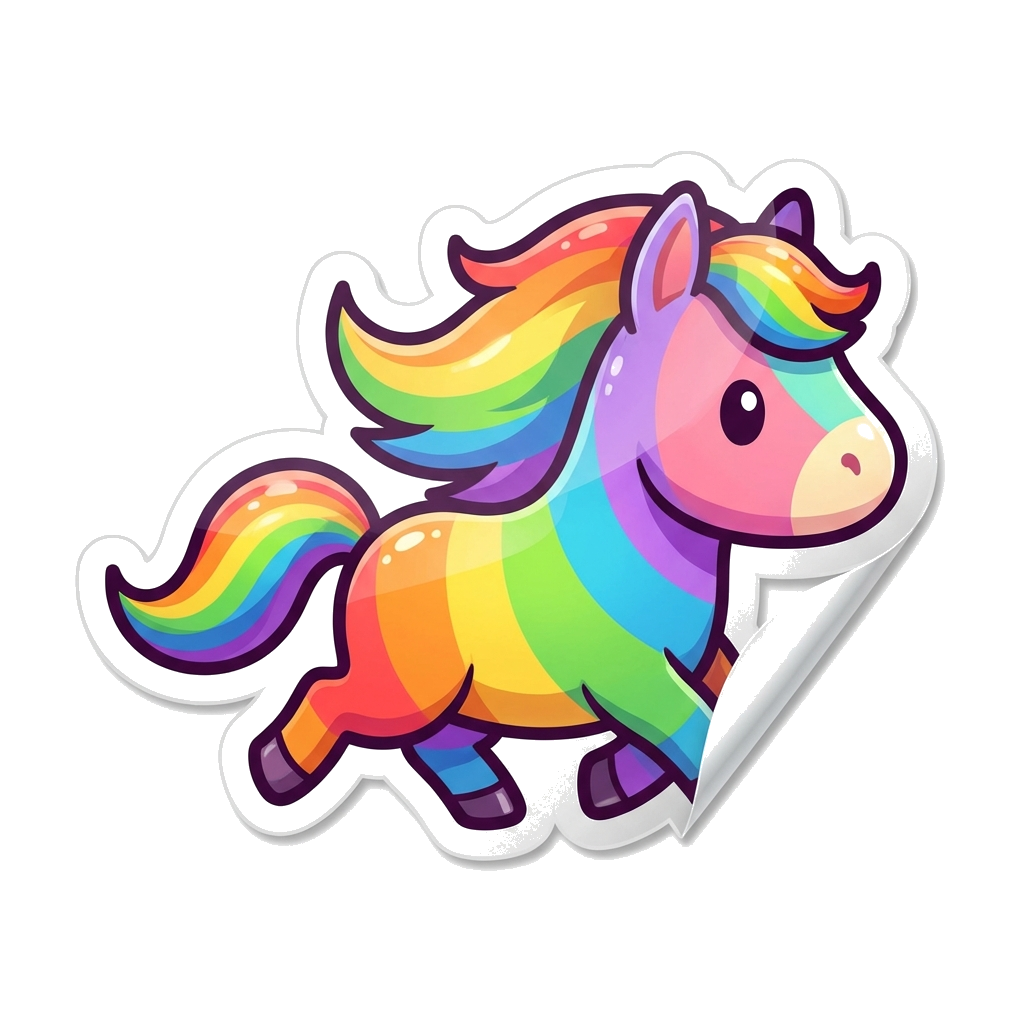
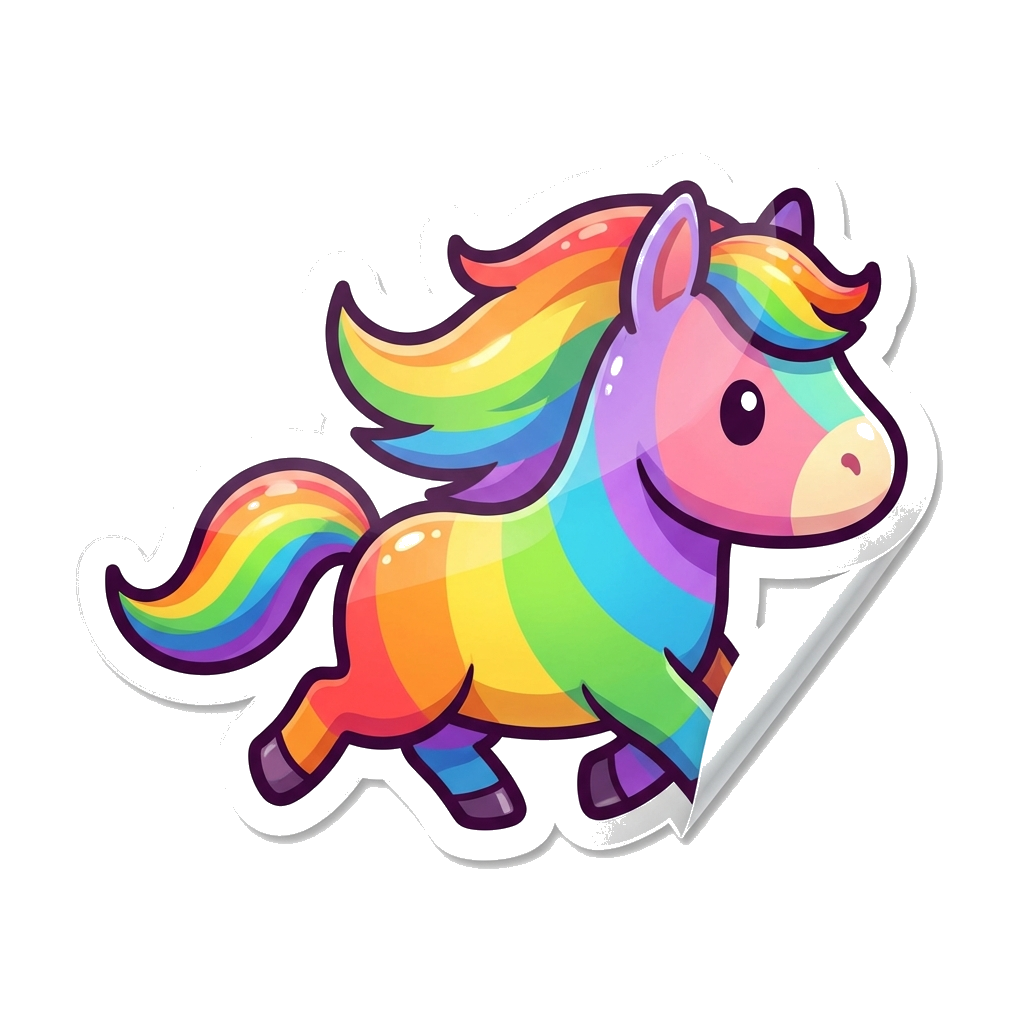
Add device-based reconnection: auto-rejoin on page reload, same device can reclaim slot

diff --git a/templates/client.html b/templates/client.html
@@ -409,12 +409,58 @@
             reconnectionDelayMax: 5000,
             reconnectionAttempts: 10
         });
+
+        // ========= Device ID for reconnection =========
+        function getDeviceId() {
+            let id = localStorage.getItem('horse_race_device_id');
+            if (!id) {
+                id = 'dev_' + Math.random().toString(36).substr(2, 9) + Date.now().toString(36);
+                localStorage.setItem('horse_race_device_id', id);
+            }
+            return id;
+        }
+        const deviceId = getDeviceId();
+        console.log('Device ID:', deviceId);
+
+        // ========= State Persistence =========
+        function saveGameState() {
+            sessionStorage.setItem('horse_race_state', JSON.stringify({
+                myName, myAvatar, isRacing, isWaiting
+            }));
+        }
+
+        function loadGameState() {
+            const saved = sessionStorage.getItem('horse_race_state');
+            if (saved) {
+                try {
+                    const state = JSON.parse(saved);
+                    if (state.myName) myName = state.myName;
+                    if (state.myAvatar) myAvatar = state.myAvatar;
+                    if (state.isRacing) isRacing = state.isRacing;
+                    if (state.isWaiting) isWaiting = state.isWaiting;
+                    console.log('Restored game state:', state);
+                    return true;
+                } catch (e) {
+                    console.log('Failed to restore game state:', e);
+                }
+            }
+            return false;
+        }
+
+        function clearGameState() {
+            sessionStorage.removeItem('horse_race_state');
+        }
+        // ==============================================
+
         let myId = null;
         let myName = '';
         let myAvatar = 'horse1';
         let isRacing = false;
         let isWaiting = false;  // Track waiting state for reconnection
         let disconnectOverlay = null;
+
+        // Restore state on page load (before socket connect triggers)
+        const hadSavedState = loadGameState();
 
         // Show disconnect overlay
         function showDisconnectOverlay() {
@@ -486,12 +532,12 @@
             // If we were in a game (racing), try to rejoin
             if (myName && isRacing) {
                 console.log('Attempting to rejoin game as:', myName);
-                socket.emit('rejoin_game', { name: myName, avatar_id: myAvatar });
+                socket.emit('rejoin_game', { name: myName, avatar_id: myAvatar, device_id: deviceId });
             }
             // If we were waiting, try to rejoin waiting
             else if (myName && isWaiting) {
                 console.log('Attempting to rejoin waiting as:', myName);
-                socket.emit('rejoin_waiting', { name: myName, avatar_id: myAvatar });
+                socket.emit('rejoin_waiting', { name: myName, avatar_id: myAvatar, device_id: deviceId });
             }
         });
 
@@ -571,6 +617,7 @@
                 myName = data.name;
             }
             isWaiting = true;  // Mark that we're in waiting state
+            saveGameState();  // Persist state for page reload
 
             // Show player's selected avatar in wait screen
             const avatarImg = document.getElementById('wait-avatar-img');
@@ -602,6 +649,7 @@
 
             isWaiting = false;  // No longer waiting
             isRacing = true;  // Mark that we're in a race for reconnection
+            saveGameState();  // Persist state for page reload
 
             // IMPORTANT: Disable all inputs and clear undo history to prevent "Shake to Undo"
             disableInputsForGame();
@@ -928,7 +976,7 @@
             myName = document.getElementById('player-name').value;
             myAvatar = document.getElementById('selected-avatar').value;
             if (!myName) return alert("請輸入名字 / Please enter name");
-            socket.emit('join_game', { name: myName, avatar_id: myAvatar });
+            socket.emit('join_game', { name: myName, avatar_id: myAvatar, device_id: deviceId });
         }
 
         function requestPermission() {

diff --git a/server_render.py b/server_render.py
@@ -366,6 +366,7 @@ def on_join(data):
 
     name = data.get('name', 'Unknown').strip()
     avatar_id = data.get('avatar_id', 'horse1')
+    device_id = data.get('device_id', '')
     
     # Name validation: limit length to 10 characters
     if len(name) > 10:
@@ -377,22 +378,55 @@ def on_join(data):
         return
     
     # Check for duplicate names
-    existing_names = [p['name'] for p in PLAYERS.values()]
-    if name in existing_names:
-        # Auto-add suffix for duplicate names
-        suffix = 2
-        new_name = f"{name}{suffix}"
-        while new_name in existing_names:
-            suffix += 1
+    existing_player = None
+    existing_pid = None
+    for pid, player in list(PLAYERS.items()):
+        if player['name'] == name:
+            existing_player = player
+            existing_pid = pid
+            break
+    
+    if existing_player:
+        # Same name exists - check device_id
+        if device_id and existing_player.get('device_id') == device_id:
+            # Same device! This is a reconnection, take over the slot
+            print(f"Player {name} reconnecting with same device_id, taking over slot")
+            new_id = request.sid
+            existing_player['id'] = new_id
+            existing_player['disconnected'] = False
+            existing_player['avatar_id'] = avatar_id  # Update avatar if changed
+            
+            # Move player to new session ID
+            if existing_pid != new_id:
+                PLAYERS[new_id] = existing_player
+                del PLAYERS[existing_pid]
+            
+            emit('join_success', {'id': new_id, 'name': name}, room=new_id)
+            # Notify host about reconnection
+            emit('player_reconnected', {
+                'player_id': new_id,
+                'old_player_id': existing_pid,
+                'player_name': name
+            }, broadcast=True)
+            emit('update_player_list', list(PLAYERS.values()), broadcast=True)
+            return
+        else:
+            # Different device, add suffix
+            suffix = 2
             new_name = f"{name}{suffix}"
-        name = new_name
-        # Notify player about name change
-        emit('name_changed', {'original': data.get('name'), 'new': name})
+            existing_names = [p['name'] for p in PLAYERS.values()]
+            while new_name in existing_names:
+                suffix += 1
+                new_name = f"{name}{suffix}"
+            name = new_name
+            # Notify player about name change
+            emit('name_changed', {'original': data.get('name'), 'new': name})
     
     PLAYERS[request.sid] = {
         'id': request.sid,
         'name': name,
         'avatar_id': avatar_id,
+        'device_id': device_id,  # Store device ID
         'progress': 0,
         'speed': 0,
         'finished': False,
@@ -409,6 +443,7 @@ def on_rejoin(data):
         return
     
     name = data.get('name', '')
+    device_id = data.get('device_id', '')
     if not name:
         emit('rejoin_failed', {'message': '名稱錯誤'})
         return
@@ -425,6 +460,10 @@ def on_rejoin(data):
     if not old_player:
         emit('rejoin_failed', {'message': '找不到玩家'})
         return
+    
+    # Optional: verify device_id matches (log warning if mismatch but allow)
+    if device_id and old_player.get('device_id') and device_id != old_player.get('device_id'):
+        print(f"WARNING: Player {name} rejoining with different device_id!")
     
     # Transfer player data to new session
     new_id = request.sid

diff --git a/remove_white_bg.py b/remove_white_bg.py
@@ -43,10 +43,21 @@ def process_new_horses():
     pass
 
 if __name__ == '__main__':
-    # This script is intended to be run after copying images
-    folder = r'c:\Users\guziy\Documents\過年紅包\static\images\mingchang'
-    for i in range(1, 7): # Process v2 horses (1-6)
-        filename = f'hw_horse{i}.png'
-        filepath = os.path.join(folder, filename)
-        if os.path.exists(filepath):
-            remove_white_background(filepath, filepath)
+    # Process regular horses
+    base_folder = r'c:\Users\guziy\Documents\過年紅包\static\images'
+    print(f"Processing base folder: {base_folder}")
+    for filename in os.listdir(base_folder):
+        if filename.startswith('horse') and filename.endswith('.png'):
+            filepath = os.path.join(base_folder, filename)
+            remove_white_background(filepath, filepath, tolerance=40)
+
+    # Process mingchang horses
+    mc_folder = os.path.join(base_folder, 'mingchang')
+    print(f"Processing Ming Chang folder: {mc_folder}")
+    if os.path.exists(mc_folder):
+        for filename in os.listdir(mc_folder):
+            if filename.startswith('hw_horse') and filename.endswith('.png'):
+                filepath = os.path.join(mc_folder, filename)
+                remove_white_background(filepath, filepath, tolerance=40)
+    
+    print("Background removal complete.")
